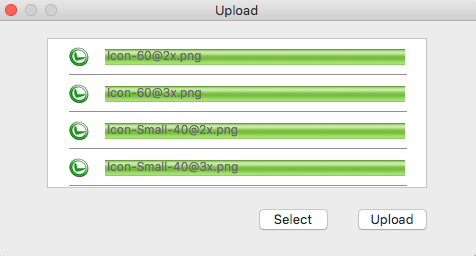
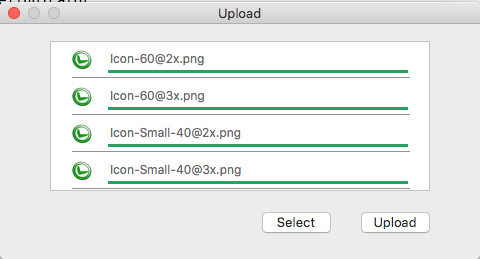
自定义NSLevelIndicator，进度采用分段变色

diff --git a/ImageHosting/View/IHUploadFileCell.m b/ImageHosting/View/IHUploadFileCell.m
@@ -7,6 +7,7 @@
 //
 
 #import "IHUploadFileCell.h"
+#import "IHLevelIndicator.h"
 
 #define PERCENT_THROSHED          100
 
@@ -16,7 +17,7 @@
 #define TITLE_HEIGHT              20
 
 #define LEVEL_INDICATOR_WIDTH     300
-#define LEVEL_INDICATOR_HEIGHT    16
+#define LEVEL_INDICATOR_HEIGHT    3
 
 #define IMAGE_WIDTH               20
 #define IMAGE_HEIGHT              20
@@ -27,7 +28,7 @@
 @interface IHUploadFileCell ()
 
 @property (strong) NSTextField *titleTextField;
-@property (strong) NSLevelIndicator *levelIndicator;
+@property (strong) IHLevelIndicator *levelIndicator;
 @property (strong) NSImageView *hintImageView;
 @property (strong) NSProgressIndicator *progressIndicator;
 
@@ -42,7 +43,7 @@
 
 - (void)initSubViews
 {
-    _levelIndicator = [[NSLevelIndicator alloc] initWithFrame:NSMakeRect(57, 10, LEVEL_INDICATOR_WIDTH, LEVEL_INDICATOR_HEIGHT)];
+    _levelIndicator = [[IHLevelIndicator alloc] initWithFrame:NSMakeRect(57, 5, LEVEL_INDICATOR_WIDTH, LEVEL_INDICATOR_HEIGHT)];
     _levelIndicator.levelIndicatorStyle = NSContinuousCapacityLevelIndicatorStyle;
     _levelIndicator.controlSize = NSRegularControlSize;
     _levelIndicator.minValue = 0;
@@ -89,7 +90,7 @@
     }
     NSInteger percent = [progress integerValue];
     
-    [self.levelIndicator setIntValue:(int)percent];
+    self.levelIndicator.percent = percent;
     
     if (percent < PERCENT_THROSHED && percent != 0) {
         [self.progressIndicator startAnimation:self];

diff --git a/ImageHosting/View/IHLevelIndicator.m b/ImageHosting/View/IHLevelIndicator.m
@@ -1,0 +1,46 @@
+//
+//  IHLevelIndicator.m
+//  ImageHosting
+//
+//  Created by chars on 16/9/2.
+//  Copyright © 2016年 chars. All rights reserved.
+//
+
+#import "IHLevelIndicator.h"
+
+@implementation IHLevelIndicator
+
+- (void)drawRect:(NSRect)dirtyRect
+{
+    [super drawRect:dirtyRect];
+    
+    NSRect fillingRect = dirtyRect;
+    fillingRect.size.width = dirtyRect.size.width * _percent / 100;
+    NSColor *indicatorColor;
+    
+    if (_percent >= 99) {
+        indicatorColor = [self colorRed:36 green:160 blue:97];
+    } else if (_percent > 60) {
+        indicatorColor = [self colorRed:194 green:143 blue:48];
+    } else {
+        indicatorColor = [self colorRed:40 green:158 blue:206];
+    }
+    [indicatorColor set];
+    NSRectFill(fillingRect);
+}
+
+- (NSColor *)colorRed:(CGFloat)red green:(CGFloat)green blue:(CGFloat)blue
+{
+    NSColor *color = [NSColor colorWithRed:red / 255.0 green:green / 255.0 blue:blue / 255.0 alpha:1.0f];
+    return color;
+}
+
+- (void)setPercent:(NSInteger)percent
+{
+    if (_percent != percent) {
+        _percent = percent;
+    }
+    [self setNeedsDisplay:YES];
+}
+
+@end

diff --git a/ImageHosting/External/BRLinkLabel/BRLinkLabel.h b/ImageHosting/External/BRLinkLabel/BRLinkLabel.h
@@ -9,10 +9,8 @@
 #import <Cocoa/Cocoa.h>
 
 IB_DESIGNABLE
-@interface BRLinkLabel : NSView
 
-- (instancetype)initWithFrame:(NSRect)frameRect attibutedString:(NSAttributedString *)displayString;
-//也可以用- (instancetype)initWithFrame:(NSRect)frameRect来创建
+@interface BRLinkLabel : NSView
 
 @property (nonatomic, copy) NSAttributedString *displayString;
 
@@ -24,5 +22,8 @@ IB_DESIGNABLE
 //背景相关
 @property (nonatomic) BOOL IBInspectable showBackground;
 @property (nonatomic, retain) IBInspectable NSColor *backgroundColor;
+
+- (instancetype)initWithFrame:(NSRect)frameRect attibutedString:(NSAttributedString *)displayString;
+//也可以用- (instancetype)initWithFrame:(NSRect)frameRect来创建
 
 @end

diff --git a/ImageHosting/View/IHLevelIndicator.h b/ImageHosting/View/IHLevelIndicator.h
@@ -1,0 +1,15 @@
+//
+//  IHLevelIndicator.h
+//  ImageHosting
+//
+//  Created by chars on 16/9/2.
+//  Copyright © 2016年 chars. All rights reserved.
+//
+
+#import <Cocoa/Cocoa.h>
+
+@interface IHLevelIndicator : NSLevelIndicator
+
+@property (nonatomic, assign) NSInteger percent;
+
+@end

diff --git a/ImageHosting/External/BRLinkLabel/BRLinkLabel.m b/ImageHosting/External/BRLinkLabel/BRLinkLabel.m
@@ -18,6 +18,7 @@
 @end
 
 @implementation BRLinkLabel
+
 @dynamic displayString;
 
 - (void)initialProperties
